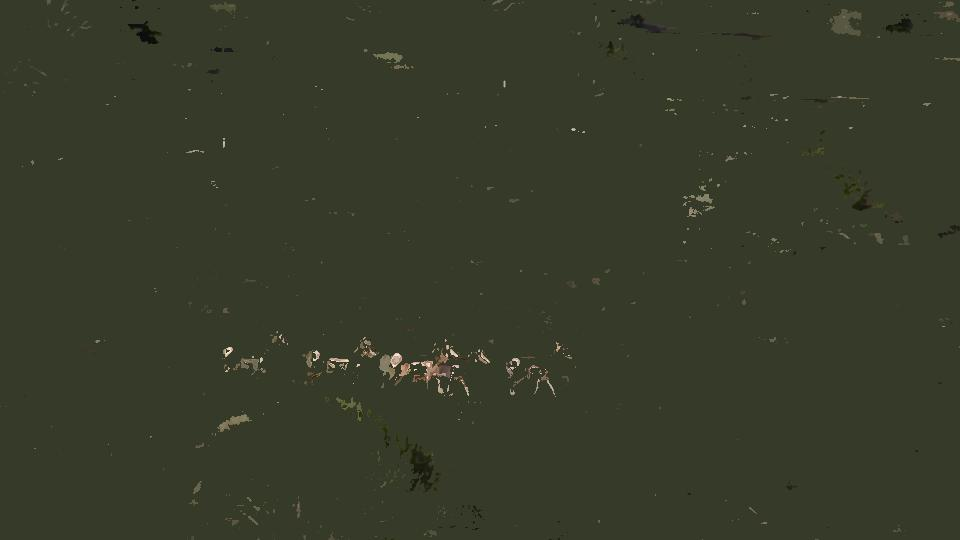
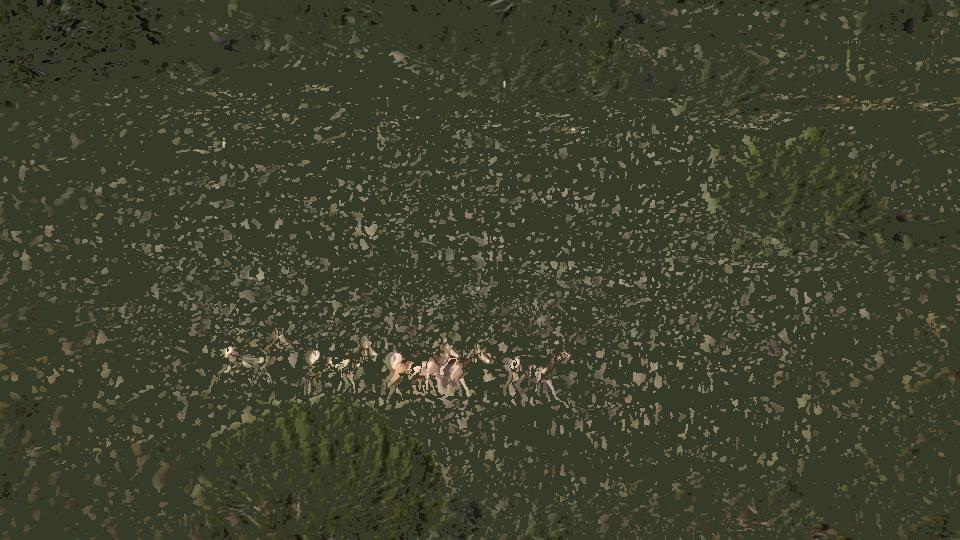
color_neighborhood_granules updated

diff --git a/granulation.py b/granulation.py
@@ -22,22 +22,46 @@ def spatio_color_granules(img: np.ndarray, threshold: int) -> Tuple[list, np.nda
 
 def spatio_temporal_granules(current_frame: np.ndarray,
                              previous_frames: list[np.ndarray], threshold: int) -> Tuple[list, np.ndarray]:
-	# TODO: calculate distance between each one of p previous frames and not the median
+	p = len(previous_frames)
 	height, width, _ = current_frame.shape
 	granulated_image = np.zeros_like(current_frame)
 
-	diffs = [cv2.absdiff(current_frame, frame) for frame in previous_frames]
-	median_diff = np.median(diffs, axis=0).astype(np.uint8)
+	diffs = np.array([cv2.absdiff(current_frame, frame) for frame in previous_frames])
+	diffs_shifted = diffs[np.newaxis, :, :, :] - diffs[:, np.newaxis, :, :]
+	distances = np.linalg.norm(diffs_shifted, axis=-1)
+
+	neighbors = [(-1, -1), (-1, 0), (-1, 1), (0, -1), (0, 1), (1, -1), (1, 0), (1, 1)]
 
 	granules_out = []
 
 	visited = np.zeros((height, width), dtype=bool)
-	for i in range(height):
-		for j in range(width):
-			if not visited[i, j]:
-				granules_out.append(_grow_region(i, j, current_frame, median_diff, visited, threshold, granulated_image))
+	for i_p in range(1, p):
+		for i in range(height):
+			for j in range(width):
+				if not visited[i, j]:
+					region = []
+					queue = [(i, j)]
+					region_color = current_frame[i, j]
 
-	granules_out = granules_out[1:]
+					while queue:
+						cx, cy = queue.pop(0)
+						if visited[cx, cy]:
+							continue
+
+						visited[cx, cy] = True
+						region.append((cx, cy))
+						granulated_image[cx, cy] = region_color
+
+						for dx, dy in neighbors:
+							nx, ny = cx + dx, cy + dy
+							if 0 <= nx < height and 0 <= ny < width and not visited[nx, ny]:
+								if distances[0, i_p, nx, ny] < threshold:
+									queue.append((nx, ny))
+					granules_out.append(region)
+
+				# granules_out.append(_grow_region(i, j, current_frame, median_diff, visited, threshold, granulated_image))
+
+	del granules_out[np.argmax([len(x) for x in granules_out])]
 
 	return granules_out, granulated_image
 

diff --git a/main.py b/main.py
@@ -16,25 +16,41 @@ if __name__ == '__main__':
         im_resized = cv2.resize(im, (0, 0), None, 0.5, 0.5)
         frames.append(im_resized)
 
-    im1 = cv2.imread('data/lena.png')
-    im1 = cv2.cvtColor(im1, cv2.COLOR_BGR2RGB)
-
+    # im1 = cv2.imread('data/lena.png')
+    # im1 = cv2.cvtColor(im1, cv2.COLOR_BGR2RGB)
+    #
     time1 = time.time()
-
-    gran1, granulated_image1 = granulation.spatio_color_granules(frames[0], 50)
-    print("Spatio color granules: done")
-    gran2, granulated_image2 = granulation.spatio_temporal_granules(frames[0], frames[1:], 100)
+    #
+    # gran1, granulated_image1 = granulation.spatio_color_granules(frames[0], 50)
+    # print("Spatio color granules: done")
+    gran2, granulated_image2 = granulation.spatio_temporal_granules(frames[0], frames[0:], 30)
     print("Spatio temporal granules: done")
-    gran3, granulated_image3 = granulation.color_neighborhood_granules(gran2, frames[0], 50)
-    print("Color neighborhood granules: done")
-
+    # gran3, granulated_image3 = granulation.color_neighborhood_granules(gran2, frames[0], 50)
+    # print("Color neighborhood granules: done")
+    #
     time2 = time.time()
-
+    print(gran2)
+    #
     print("Elapsed time:", time2-time1)
-
-    plt.imsave('spatio_color_granules.jpg', granulated_image1)
+    #
+    # plt.imsave('spatio_color_granules.jpg', granulated_image1)
     plt.imsave('spatio_temporal_granules.jpg', granulated_image2)
-    plt.imsave('color_neighborhood_granules.jpg', granulated_image3)
+    # plt.imsave('color_neighborhood_granules.jpg', granulated_image3)
+
+    # current_frame = frames[0]
+    # previous_frames = frames[0:]
+    #
+    #
+    # time1 = time.time()
+    # distances = np.linalg.norm(diffs_shifted, axis=-1)
+    # time2 = time.time()
+    # print(time2-time1)
+    # print(diffs[np.newaxis, :, :, :].shape)
+    # print(diffs[:, np.newaxis, :, :].shape)
+    # print(diffs_shifted.shape)
+    # print(diffs_shifted[2, 3])
+    # plt.imshow(diffs[4])
+    # plt.show()
 
 
 
